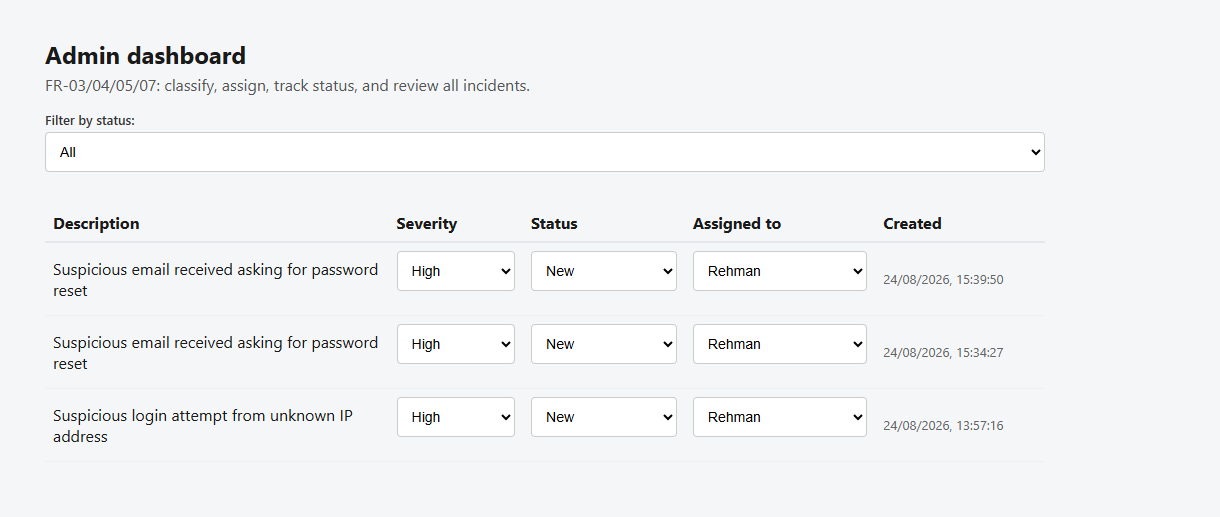
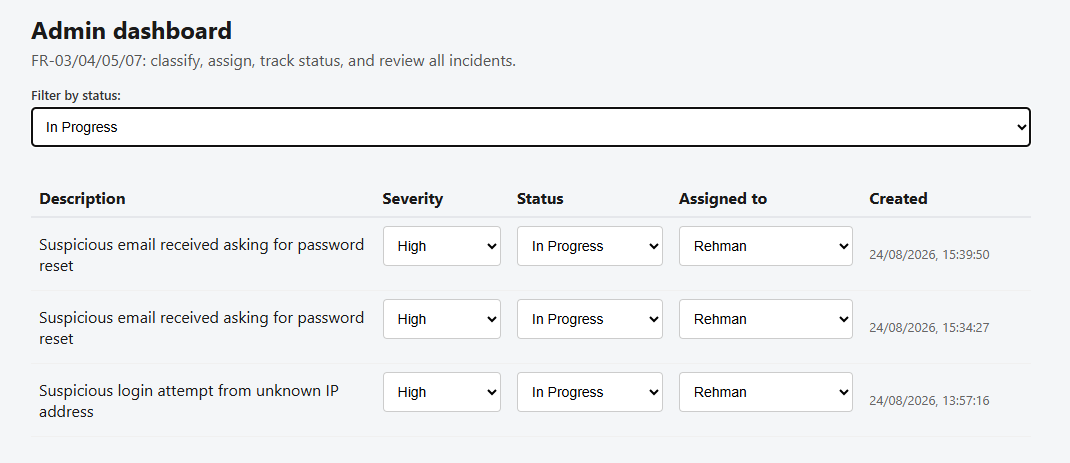
FR-03/FR-04/FR-05/FR-07: admin dashboard with severity, assignment, status update, and filtering

diff --git a/frontend/src/components/AdminDashboard.jsx b/frontend/src/components/AdminDashboard.jsx
@@ -1,0 +1,160 @@
+import React, { useState, useEffect } from 'react';
+import { api } from '../api/client';
+
+const SEVERITIES = ['Low', 'Medium', 'High', 'Critical'];
+const STATUSES = ['New', 'In Progress', 'Resolved', 'Closed'];
+
+// Admin/manager view: list all incidents, change severity, assign staff, update status.
+// Covers FR-03 (severity), FR-04 (assignment), FR-05 (status), FR-07 (report/list).
+export default function AdminDashboard() {
+    const [incidents, setIncidents] = useState([]);
+    const [staff, setStaff] = useState([]);
+    const [statusFilter, setStatusFilter] = useState('');
+    const [loading, setLoading] = useState(true);
+    const [error, setError] = useState('');
+    const [savingId, setSavingId] = useState(null);
+
+    async function loadIncidents() {
+        setLoading(true);
+        setError('');
+        try {
+            const params = statusFilter ? { status: statusFilter } : {};
+            const data = await api.listIncidents(params);
+            setIncidents(data);
+        } catch (err) {
+            setError(err.message);
+        } finally {
+            setLoading(false);
+        }
+    }
+
+    useEffect(() => {
+        loadIncidents();
+        api.listUsers().then(setStaff).catch(() => setStaff([]));
+        // eslint-disable-next-line react-hooks/exhaustive-deps
+    }, [statusFilter]);
+
+    async function handleSeverityChange(id, severity) {
+        setSavingId(id);
+        try {
+            const updated = await api.updateSeverity(id, severity);
+            setIncidents((prev) => prev.map((inc) => (inc.id === id ? updated : inc)));
+        } catch (err) {
+            setError(err.message);
+        } finally {
+            setSavingId(null);
+        }
+    }
+
+    async function handleStatusChange(id, status) {
+        setSavingId(id);
+        try {
+            const updated = await api.updateStatus(id, status);
+            setIncidents((prev) => prev.map((inc) => (inc.id === id ? updated : inc)));
+        } catch (err) {
+            setError(err.message);
+        } finally {
+            setSavingId(null);
+        }
+    }
+
+    async function handleAssign(id, userId) {
+        if (!userId) return;
+        setSavingId(id);
+        try {
+            const updated = await api.assignIncident(id, userId);
+            setIncidents((prev) => prev.map((inc) => (inc.id === id ? updated : inc)));
+        } catch (err) {
+            setError(err.message);
+        } finally {
+            setSavingId(null);
+        }
+    }
+
+    return (
+        <div style={{ maxWidth: 1000, margin: '0 auto', padding: 24 }}>
+            <h2 style={{ marginBottom: 4 }}>Admin dashboard</h2>
+            <p style={{ color: '#555', marginTop: 0 }}>
+                FR-03/04/05/07: classify, assign, track status, and review all incidents.
+            </p>
+
+            <div style={{ marginBottom: 16 }}>
+                <label style={{ marginRight: 8 }}>Filter by status:</label>
+                <select value={statusFilter} onChange={(e) => setStatusFilter(e.target.value)}>
+                    <option value="">All</option>
+                    {STATUSES.map((s) => (
+                        <option key={s} value={s}>{s}</option>
+                    ))}
+                </select>
+            </div>
+
+            {error && (
+                <div style={{ background: '#fee2e2', color: '#991b1b', padding: 10, borderRadius: 6, marginBottom: 12 }}>
+                    {error}
+                </div>
+            )}
+
+            {loading ? (
+                <p>Loading incidents…</p>
+            ) : incidents.length === 0 ? (
+                <p>No incidents found.</p>
+            ) : (
+                <table style={{ width: '100%', borderCollapse: 'collapse' }}>
+                    <thead>
+                        <tr style={{ textAlign: 'left', borderBottom: '2px solid #e5e7eb' }}>
+                            <th style={{ padding: 8 }}>Description</th>
+                            <th style={{ padding: 8 }}>Severity</th>
+                            <th style={{ padding: 8 }}>Status</th>
+                            <th style={{ padding: 8 }}>Assigned to</th>
+                            <th style={{ padding: 8 }}>Created</th>
+                        </tr>
+                    </thead>
+                    <tbody>
+                        {incidents.map((inc) => (
+                            <tr key={inc.id} style={{ borderBottom: '1px solid #f0f0f0', opacity: savingId === inc.id ? 0.5 : 1 }}>
+                                <td style={{ padding: 8, maxWidth: 260 }}>{inc.description}</td>
+                                <td style={{ padding: 8 }}>
+                                    <select
+                                        value={inc.severity}
+                                        onChange={(e) => handleSeverityChange(inc.id, e.target.value)}
+                                        disabled={savingId === inc.id}
+                                    >
+                                        {SEVERITIES.map((s) => (
+                                            <option key={s} value={s}>{s}</option>
+                                        ))}
+                                    </select>
+                                </td>
+                                <td style={{ padding: 8 }}>
+                                    <select
+                                        value={inc.status}
+                                        onChange={(e) => handleStatusChange(inc.id, e.target.value)}
+                                        disabled={savingId === inc.id}
+                                    >
+                                        {STATUSES.map((s) => (
+                                            <option key={s} value={s}>{s}</option>
+                                        ))}
+                                    </select>
+                                </td>
+                                <td style={{ padding: 8 }}>
+                                    <select
+                                        value={inc.assigned_user_id || ''}
+                                        onChange={(e) => handleAssign(inc.id, e.target.value)}
+                                        disabled={savingId === inc.id}
+                                    >
+                                        <option value="">Unassigned</option>
+                                        {staff.map((u) => (
+                                            <option key={u.id} value={u.id}>{u.full_name}</option>
+                                        ))}
+                                    </select>
+                                </td>
+                                <td style={{ padding: 8, fontSize: 13, color: '#666' }}>
+                                    {new Date(inc.created_at).toLocaleString()}
+                                </td>
+                            </tr>
+                        ))}
+                    </tbody>
+                </table>
+            )}
+        </div>
+    );
+}

diff --git a/backend/src/routes/incidents.js b/backend/src/routes/incidents.js
@@ -94,6 +94,69 @@ router.patch('/:id/status', requireAuth, requireRole('admin', 'manager'), async 
     }
 });
 
+// PATCH /api/incidents/{id}/severity — update severity (FR-03) — admin/manager only (NFR-02)
+router.patch('/:id/severity', requireAuth, requireRole('admin', 'manager'), async (req, res) => {
+    const { severity } = req.body;
+    const validSeverities = ['Low', 'Medium', 'High', 'Critical'];
+    if (!validSeverities.includes(severity)) {
+        return res.status(400).json({ error: `severity must be one of: ${validSeverities.join(', ')}` }); // TC-04 checks this
+    }
+
+    const client = await pool.connect();
+    try {
+        await client.query('BEGIN');
+        const result = await client.query(
+            `UPDATE incidents SET severity = $1, updated_at = now() WHERE id = $2 RETURNING *`,
+            [severity, req.params.id]
+        );
+        if (result.rows.length === 0) {
+            await client.query('ROLLBACK');
+            return res.status(404).json({ error: 'Incident not found' });
+        }
+        const incident = result.rows[0];
+        await writeAuditLog(client, incident.id, req.user.id, 'SEVERITY_CHANGED', `Severity set to ${severity}`);
+        await client.query('COMMIT');
+        res.json(incident); // TC-04: severity persists correctly
+    } catch (err) {
+        await client.query('ROLLBACK');
+        console.error(err);
+        res.status(500).json({ error: 'Internal server error' });
+    } finally {
+        client.release();
+    }
+});
+
+// PATCH /api/incidents/{id}/assign — assign/escalate to staff (FR-04) — admin/manager only (NFR-02)
+router.patch('/:id/assign', requireAuth, requireRole('admin', 'manager'), async (req, res) => {
+    const { assigned_user_id } = req.body;
+    if (!assigned_user_id) {
+        return res.status(400).json({ error: 'assigned_user_id is required' });
+    }
+
+    const client = await pool.connect();
+    try {
+        await client.query('BEGIN');
+        const result = await client.query(
+            `UPDATE incidents SET assigned_user_id = $1, updated_at = now() WHERE id = $2 RETURNING *`,
+            [assigned_user_id, req.params.id]
+        );
+        if (result.rows.length === 0) {
+            await client.query('ROLLBACK');
+            return res.status(404).json({ error: 'Incident not found' });
+        }
+        const incident = result.rows[0];
+        await writeAuditLog(client, incident.id, req.user.id, 'ASSIGNED', `Assigned to user ${assigned_user_id}`);
+        await client.query('COMMIT');
+        res.json(incident); // FR-04: assigned_user_id updates and is visible on incident detail
+    } catch (err) {
+        await client.query('ROLLBACK');
+        console.error(err);
+        res.status(500).json({ error: 'Internal server error' });
+    } finally {
+        client.release();
+    }
+});
+
 // GET /api/incidents — list/report, admin only (FR-07) — this is what TC-08 tests against
 router.get('/', requireAuth, requireRole('admin', 'manager'), async (req, res) => {
     const { from, to, status } = req.query;

diff --git a/frontend/src/App.jsx b/frontend/src/App.jsx
@@ -4,14 +4,19 @@ import Login from './components/Login.jsx';
 import Signup from './components/Signup.jsx';
 import ReportIncident from './components/ReportIncident.jsx';
 import IncidentDetail from './components/IncidentDetail.jsx';
+import AdminDashboard from './components/AdminDashboard.jsx';
 
 // Simple view switcher — no router library needed for this scope.
 export default function App() {
-  const [view, setView] = useState(api.isLoggedIn() ? 'report' : 'login');
+  const isAdmin = api.getRole() === 'admin' || api.getRole() === 'manager';
+  const [view, setView] = useState(
+    api.isLoggedIn() ? (isAdmin ? 'dashboard' : 'report') : 'login'
+  );
   const [lastIncidentId, setLastIncidentId] = useState(null);
 
   function handleLoggedIn() {
-    setView('report');
+    const admin = api.getRole() === 'admin' || api.getRole() === 'manager';
+    setView(admin ? 'dashboard' : 'report');
   }
 
   function handleIncidentCreated(id) {
@@ -27,7 +32,17 @@ export default function App() {
   return (
     <div>
       {api.isLoggedIn() && (
-        <div style={{ textAlign: 'right', padding: '12px 24px' }}>
+        <div style={{ textAlign: 'right', padding: '12px 24px', display: 'flex', justifyContent: 'flex-end', gap: 16 }}>
+          {isAdmin && (
+            <>
+              <a onClick={() => setView('dashboard')} style={{ cursor: 'pointer', fontSize: 13, color: '#1a56db' }}>
+                Dashboard
+              </a>
+              <a onClick={() => setView('report')} style={{ cursor: 'pointer', fontSize: 13, color: '#1a56db' }}>
+                Report incident
+              </a>
+            </>
+          )}
           <a onClick={handleLogout} style={{ cursor: 'pointer', fontSize: 13, color: '#1a56db' }}>
             Log out
           </a>
@@ -46,6 +61,7 @@ export default function App() {
       {view === 'detail' && (
         <IncidentDetail incidentId={lastIncidentId} onBack={() => setView('report')} />
       )}
+      {view === 'dashboard' && <AdminDashboard />}
     </div>
   );
 }

diff --git a/frontend/src/api/client.js b/frontend/src/api/client.js
@@ -55,4 +55,27 @@ export const api = {
         const qs = new URLSearchParams(params).toString();
         return request(`/api/incidents${qs ? `?${qs}` : ''}`);
     },
+
+    // FR-03: update severity (admin/manager only) — this is what TC-04 checks
+    updateSeverity: (id, severity) =>
+        request(`/api/incidents/${id}/severity`, { method: 'PATCH', body: JSON.stringify({ severity }) }),
+
+    // FR-04: assign/escalate incident to a staff member (admin/manager only)
+    assignIncident: (id, assigned_user_id) =>
+        request(`/api/incidents/${id}/assign`, { method: 'PATCH', body: JSON.stringify({ assigned_user_id }) }),
+
+    // FR-04: list staff for the assignment dropdown (admin/manager only)
+    listUsers: () => request('/api/users'),
+
+    // Read the logged-in user's role straight out of the JWT (no extra API call needed)
+    getRole: () => {
+        const token = getToken();
+        if (!token) return null;
+        try {
+            const payload = JSON.parse(atob(token.split('.')[1]));
+            return payload.role;
+        } catch {
+            return null;
+        }
+    },
 };

diff --git a/backend/src/routes/users.js b/backend/src/routes/users.js
@@ -1,0 +1,21 @@
+const express = require('express');
+const pool = require('../db/pool');
+const { requireAuth, requireRole } = require('../middleware/auth');
+
+const router = express.Router();
+
+// GET /api/users — list staff for the assignment dropdown (FR-04) — admin/manager only
+// Only returns non-sensitive fields (never password_hash) — matches NFR-01 privacy expectations.
+router.get('/', requireAuth, requireRole('admin', 'manager'), async (req, res) => {
+    try {
+        const result = await pool.query(
+            `SELECT id, full_name, role FROM users WHERE role IN ('admin', 'manager') ORDER BY full_name`
+        );
+        res.json(result.rows);
+    } catch (err) {
+        console.error(err);
+        res.status(500).json({ error: 'Internal server error' });
+    }
+});
+
+module.exports = router;

diff --git a/backend/src/server.js b/backend/src/server.js
@@ -4,6 +4,7 @@ const cors = require('cors');
 
 const authRoutes = require('./routes/auth');
 const incidentRoutes = require('./routes/incidents');
+const userRoutes = require('./routes/users');
 const categoryRoutes = require('./routes/categories');
 
 const app = express();
@@ -14,6 +15,7 @@ app.get('/health', (req, res) => res.json({ status: 'ok' }));
 
 app.use('/api/auth', authRoutes);
 app.use('/api/incidents', incidentRoutes);
+app.use('/api/users', userRoutes);
 app.use('/api/categories', categoryRoutes);
 
 const PORT = process.env.PORT || 3000;
